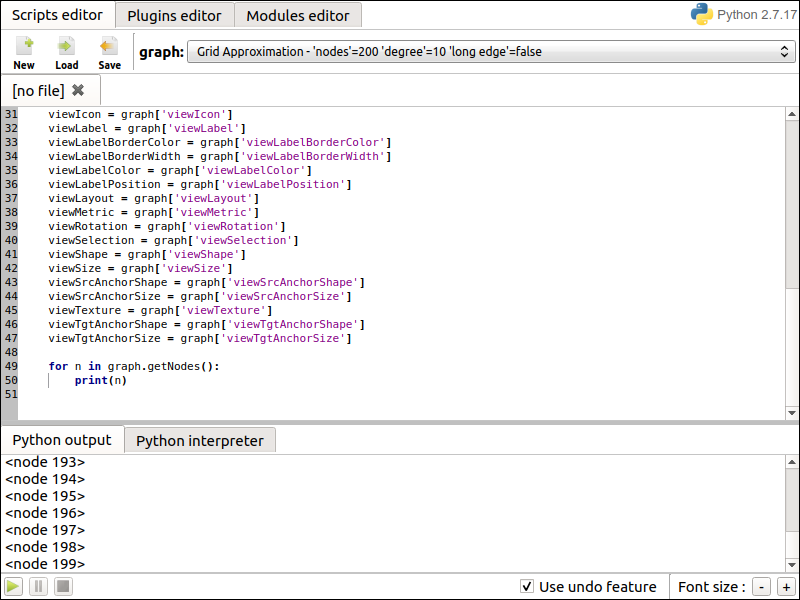
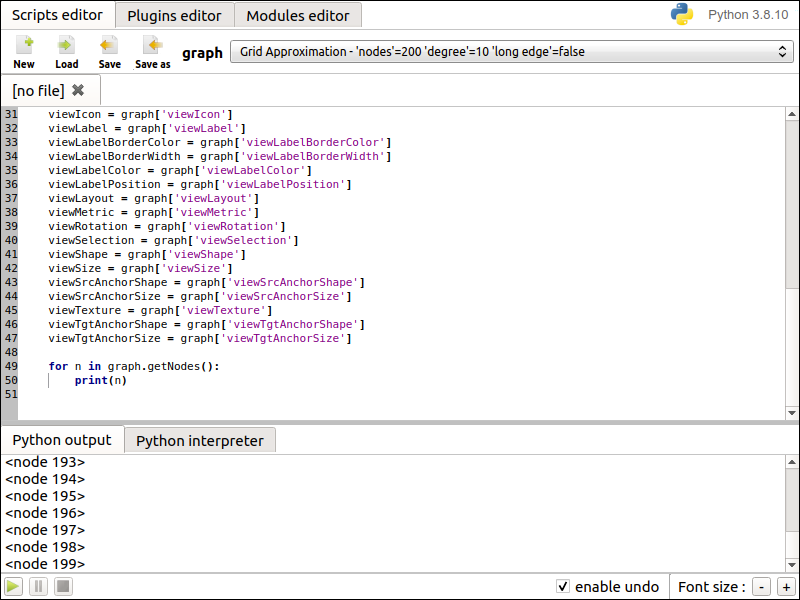
Python doc update

diff --git a/doc/python/gettingstarted.rst b/doc/python/gettingstarted.rst
@@ -47,7 +47,7 @@ More sophisticated ways to write python code for graphs management purpose are p
   part of the tab is wrapped as a :class:`tlp.Graph` object and provided as parameter of the "main" function.
   The currently edited script can be launched (|icon_run| button) through the control panel located in the lower part of the tab interface.
   Once started, the script execution can be paused (|icon_pause| button) or stopped (|icon_stop| button); trigerring the update of Tulip visualizations each time.
-  All modifications performed by a script on a graph can be cancelled / replayed through the Tulip undo / redo feature.
+  All modifications performed by a script on a graph can be cancelled/replayed through the Tulip undo/redo feature if the "enable undo" box is checked.
 
 .. _fig2:
 .. figure:: tulipPythonScript.png
